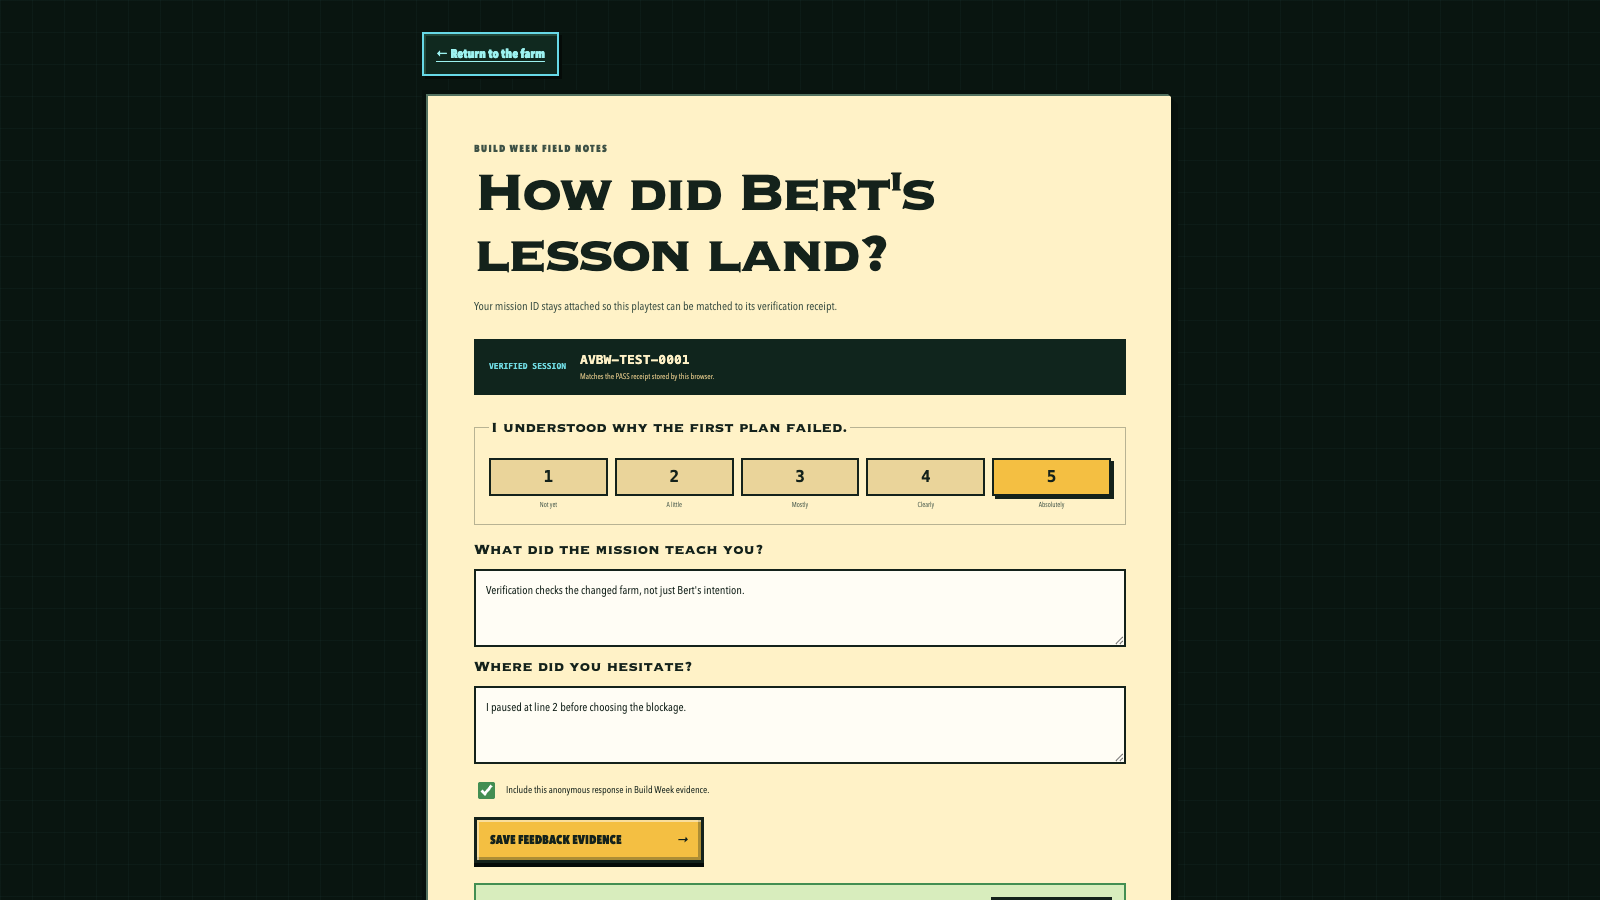
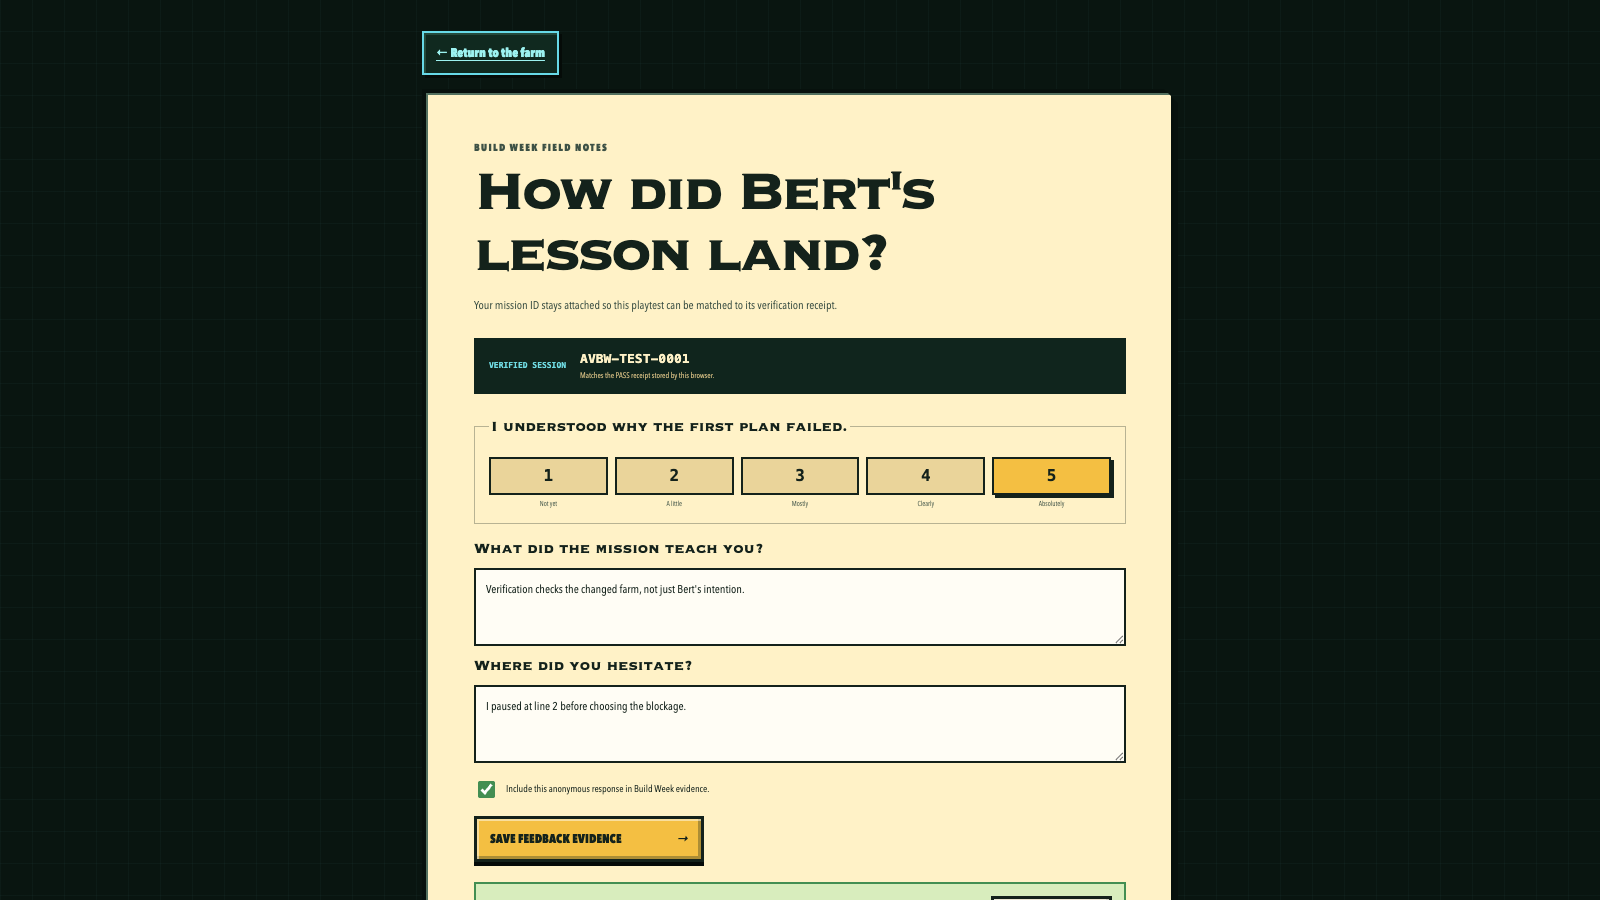
Harden compact failure proof

diff --git a/src/styles.css b/src/styles.css
@@ -2803,7 +2803,7 @@ body {
   }
 
   .app-shell[data-mode="failure"] .workbench {
-    grid-template-rows: auto auto auto minmax(132px, 0.9fr) minmax(132px, 0.9fr) auto auto;
+    grid-template-rows: auto auto auto minmax(132px, 0.9fr) minmax(150px, 1fr) auto auto;
   }
 
   .app-shell[data-mode="failure"] .language-card {
@@ -2849,6 +2849,14 @@ body {
 
   .app-shell[data-mode="failure"] .coach-note {
     padding: 4px 6px;
+  }
+
+  .app-shell[data-mode="failure"] .coach-note > div {
+    min-width: 0;
+  }
+
+  .app-shell[data-mode="failure"] .coach-note code {
+    white-space: nowrap;
   }
 }
 

diff --git a/src/app.js b/src/app.js
@@ -778,7 +778,7 @@ function renderLesson() {
         : progressiveLessons[phaseIndex],
     compiled: ["Plan · Ready", "Read the plan before it runs.", "Compilation proves the language is safe. Verification will prove whether it works."],
     running: ["Execution · Live", "Watch cause become effect.", "The trace and Bert advance together; the farm remains the source of truth."],
-    failure: ["Step 3 · Diagnose", "The plan was safe. The result was not.", "Bert carried out line 2’s choice, but verification found 0 of 3 beds watered."],
+    failure: ["Step 3 · Diagnose", "Safe plan. Wrong result.", "Bert executed line 2’s choice; Verify found 0 of 3 beds watered."],
     repair: ["Step 4 · Repair", "Change the choice, not the evidence.", `Use ${REPAIR_DECISION} on line 2. Keep Observe, Act, and Verify unchanged.`],
     "repair-ready": ["Repair · Ready", "The new decision addresses the cause.", "Run it again: line 3 will carry out the choice, and Verify will inspect the farm."],
     proof: ["Step 5 · Proof", "World change verified.", "Your receipt records what Bert observed, changed, and proved."],

diff --git a/progress.md b/progress.md
@@ -101,4 +101,5 @@ Original prompt: Build a clean-room hackathon project called AgentVille: Build W
 - Closed final independent-review findings by requiring the exact compiler-minted plan plus a privately minted Decide result at the step API, adding a truthful already-satisfied/no-action recap, and tightening repair-history evidence.
 - `COPYFILE_DISABLE=1 npm run smoke` passes 34/34 Node tests and 302/302 production-dist browser assertions with empty console, page, network, response, dialog, and runner diagnostics.
 - Refreshed and visually inspected Observe, Decide, failure, grand-payoff, and debrief frames at the judging viewport; the 1280×720 failure frame contains all four code lines, Act as `NO CHANGE`, failed Verify, and the Coach simultaneously, while the debrief explains all four phases.
+- The first Pages attempt for `b178648` failed closed in [Actions run 29690284784](https://github.com/b33fydan/agentville-build-week/actions/runs/29690284784) because Linux font metrics made the compact Coach taller than its trace viewport. Shortened the diagnosis copy, kept the repair command unbroken, raised the trace viewport from 107px to 124px locally, regenerated the failure frame, and reran all 302 assertions before retrying deployment.
 - Updated the README, acceptance contract, playtest protocol, clean-room manifest, collaboration record, and Devpost submission/evidence drafts. Public decision-model deployment proof remains the final release step.